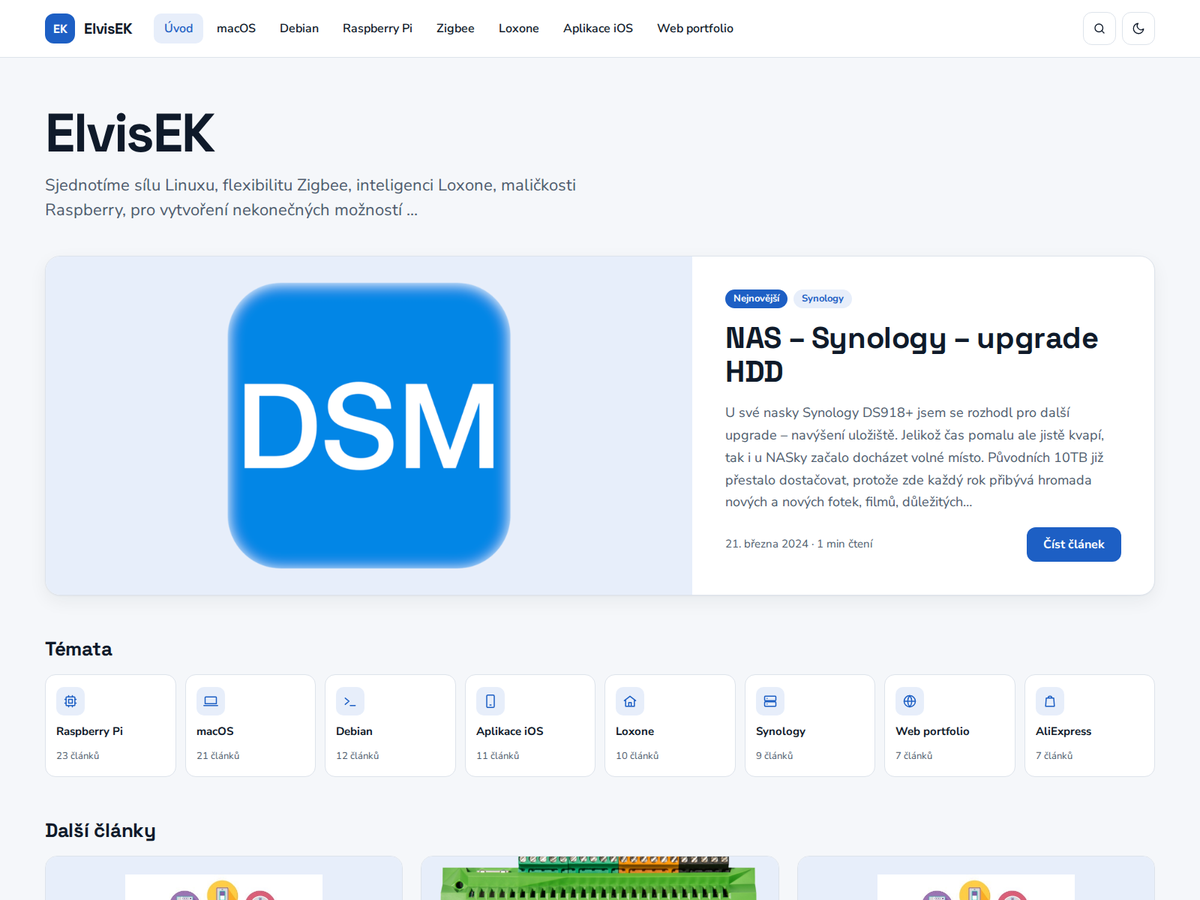
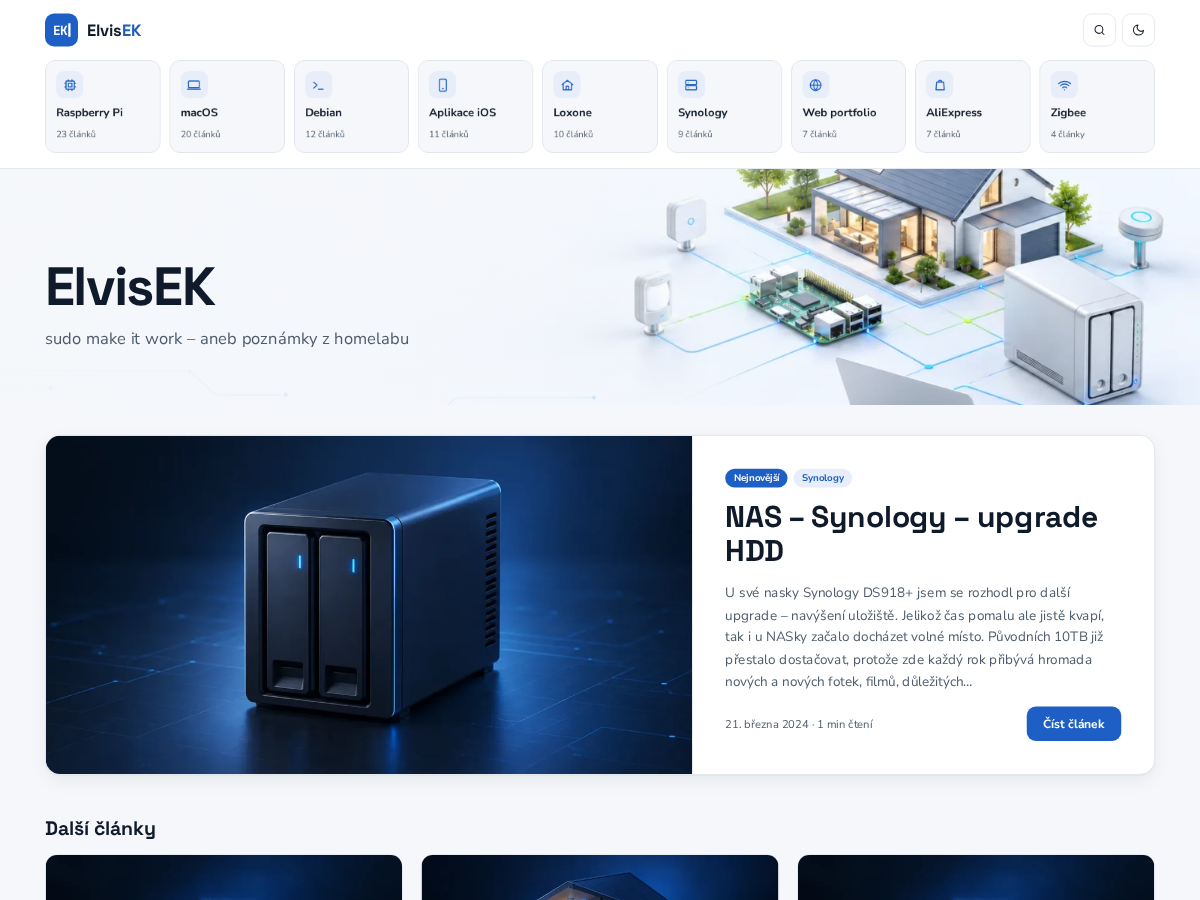
README: popis šablony a pluginu, nový náhled

diff --git a/README.md b/README.md
@@ -1,30 +1,140 @@
-# elvisek.cz — šablona a vývoj
+# ElvisEK — WordPress šablona a plugin
 
-| Složka | Obsah |
+[![Release](https://img.shields.io/github/v/release/elvisek2020/wp-theme_elvisek?label=release)](https://github.com/elvisek2020/wp-theme_elvisek/releases/latest)
+![WordPress](https://img.shields.io/badge/WordPress-6.6%2B-21759b)
+![PHP](https://img.shields.io/badge/PHP-8.1%2B-777bb4)
+![License](https://img.shields.io/badge/license-GPL--2.0--or--later-blue)
+
+Vlastní šablona a doprovodný plugin pro technický blog [www.elvisek.cz](https://www.elvisek.cz) — rychlé, bez jQuery, bez build kroku a bez externích služeb. Navrženo pro dlouhé návody s ukázkami kódu.
+
+![Náhled šablony](theme/elvisek/screenshot.png)
+
+| Balíček | Typ | Popis |
+|---|---|---|
+| **ElvisEK** (`theme/elvisek`) | šablona | vzhled webu: titulka, články, rubriky, komentáře |
+| **ElvisEK Core** (`plugins/elvisek-core`) | plugin | funkce nezávislé na šabloně: bezpečnost, obrázky, SEO, údržba |
+
+Obojí se vydává společně se stejným číslem verze a aktualizuje se přímo z GitHub Releases.
+
+---
+
+## Šablona ElvisEK
+
+**Vzhled**
+- Světlý a tmavý režim (Systém / Světlý / Tmavý) a volba šířky stránky v patičce, pamatuje si je prohlížeč
+- Titulka v magazínovém stylu: nadpis s mottem a obrázkem (zvlášť pro světlý a tmavý režim), hlavní článek a mřížka karet
+- Dlaždice témat v hlavičce, které se při rolování změní v kompaktní lištu; když se témata nevejdou, nabídnou se v hamburger menu
+- Rychlé hledání v hlavičce a „Načíst další“ místo stránkování
+
+**Články**
+- Obsah článku (TOC) z nadpisů a volitelný boční panel s novinkami
+- Bloky kódu se zvýrazněním syntaxe (PrismJS), čísly řádků a tlačítkem Kopírovat; dvě šířky podle délky kódu
+- Obrázky jednotně na 800 px a prohlížeč obrázků (lightbox) se šipkami
+- Štítek „Aktualizováno“ u zrevidovaných návodů (datum se zadává v editoru)
+- Obrázek rubriky jako náhled u článků bez vlastního obrázku
+- Související články, tisková verze a komentáře ve sbaleném boxu s kompaktním formulářem
+- Tlačítko Nahoru
+
+**Technicky**
+- Hybridní šablona: PHP šablony a `theme.json`, moduly v `inc/` jdou vypnout jednotlivě
+- Fonty (Nunito Sans, Space Grotesk, JetBrains Mono) i zvýrazňovač kódu jsou lokálně, žádné CDN
+- SEO: meta description, Open Graph, Twitter karty, JSON-LD, kanonické URL
+- Google Analytics 4 s vlastní cookie lištou — načte se jen se souhlasem a jen když je vyplněné ID
+- Antispam komentářů (honeypot a časová kontrola) bez reCAPTCHA
+
+**Nastavení** — *Vzhled → Přizpůsobit*
+
+| Sekce | Volby |
 |---|---|
-| `theme/elvisek/` | šablona ElvisEK (viz její README) |
-| `plugins/elvisek-core/` | plugin ElvisEK Core — funkce nezávislé na šabloně, nástroje pro přechod a údržbu |
-| `mu-plugins/elvisek-dev-tools.php` | **jen lokální vývoj, nenasazovat** |
-| `dev/` | lokální WordPress v Dockeru (`dev/README.md`) |
-| `docs/` | plán a wishlist |
+| Úvodní stránka | nadpis s mottem, obrázek hlavičky (světlý / tmavý), výběr a pořadí témat, počet témat |
+| Články | boční panel (obsah článku, novinky), čísla řádků u kódu, odkazy Starší / Novější, režim obrázku rubriky |
+| Patička | text o webu, rok založení |
+| SEO | meta description titulky, Google Analytics 4 ID |
 
-## Vydání nové verze šablony
-Šablona i plugin mají **společnou verzi**.
+Obrázek rubriky se nastavuje v *Příspěvky → Rubriky*.
 
-1. Zvýšit `Version:` v `theme/elvisek/style.css` **i** v `plugins/elvisek-core/elvisek-core.php` (např. `0.4.0`).
-2. `git add -A && git commit -m "…" && git tag -a v0.4.0 -m "0.4.0" && git push --follow-tags`
-   (tag musí být **anotovaný** `-a`, jinak ho `--follow-tags` nepošle; případně `git push origin v0.4.0`)
-3. GitHub Action zkontroluje verze a PHP, sestaví `elvisek.zip` + `elvisek-core.zip` a vytvoří Release.
-4. Ve WordPressu: Nástěnka → Aktualizace → *Zkontrolovat znovu* → aktualizovat šablonu i plugin.
+---
 
-První instalace: stáhnout ZIPy z Releases → Vzhled → Motivy → Přidat → Nahrát (`elvisek.zip`), Pluginy → Přidat → Nahrát (`elvisek-core.zip`).
+## Plugin ElvisEK Core
 
-## Psaní článků přes Claude (tools/wp.py)
+Nahrazuje sedm dřívějších pluginů a funguje nezávisle na šabloně.
 
-Malý klient pro WordPress REST API. Přístup (uživatel `claude`, role Redaktor, heslo aplikace) čte z `ctime.txt`, který je v `.gitignore`. Články vytváří a upravuje **jen jako koncepty**, publikuje člověk.
+| Oblast | Co dělá |
+|---|---|
+| Přihlášení | omezení pokusů o přihlášení, log přihlášení, poslední přihlášení uživatelů |
+| Bezpečnost | hardening WordPressu, bezpečnostní HTTP hlavičky, přesměrování autorských stránek |
+| Obrázky | PNG/JPG se při nahrání uloží rovnou jako WebP (fotky se otočí podle EXIF), zmenšeniny ve WebP |
+| SEO | sitemap s datem změny a bez uživatelů, `/llms.txt` |
+| Média | další povolené typy souborů ke stažení |
+| Aktualizace | automatické aktualizace WordPressu a pluginů, aktualizace šablony i pluginu z GitHubu |
+| Admin | informace o serveru v patičce administrace |
+
+**Údržba webu** — *Nástroje → Údržba webu*
+- Sjednocení starších obrázků na WebP: převede soubory i odkazy v obsahu, staré adresy přesměruje (301)
+- Přehled databáze (velikost tabulek, autoload) a optimalizace
+- Největší soubory, nepoužité obrázky s hromadným mazáním a rozbité interní odkazy
+- Úklid revizí, konceptů, koše a expirovaných transientů
+
+---
+
+## Požadavky
+
+- WordPress 6.6+ (testováno do 7.1)
+- PHP 8.1+ s podporou WebP v GD nebo Imagick
+
+## Instalace
+
+1. Stáhněte `elvisek.zip` a `elvisek-core.zip` z [posledního vydání](https://github.com/elvisek2020/wp-theme_elvisek/releases/latest).
+2. *Vzhled → Motivy → Přidat nový → Nahrát motiv* → `elvisek.zip` → Aktivovat.
+3. *Pluginy → Přidat nový → Nahrát plugin* → `elvisek-core.zip` → Aktivovat.
+
+## Aktualizace
+
+Šablona i plugin si nové vydání najdou samy. Stačí *Nástěnka → Aktualizace → Zkontrolovat znovu* a aktualizovat.
+
+---
+
+## Vývoj
+
+```
+theme/elvisek/            šablona (podrobnosti v theme/elvisek/README.md)
+plugins/elvisek-core/     plugin
+mu-plugins/               pomůcky jen pro lokální vývoj — nenasazovat
+dev/                      lokální WordPress v Dockeru (dev/README.md)
+tools/                    wp.py (REST API klient), img.py (příprava obrázků)
+docs/                     plán a wishlist
+.github/workflows/        sestavení vydání
+```
+
+**Lokální prostředí** — WordPress v Dockeru na `http://localhost:8080`, šablona a plugin jsou do kontejneru připojené přímo z repozitáře (bez kopírování). Návod v [`dev/README.md`](dev/README.md).
+
+**Nástroje**
 
 ```bash
-python3 tools/wp.py whoami | categories | drafts | get <id>
-python3 tools/wp.py draft --title "…" --content clanek.html --categories 15 --tags "docker,rpi" [--featured obrazek.jpg] [--id <id konceptu>]
-python3 tools/wp.py upload obrazek.jpg --alt "…"
+# WordPress REST API – články jen jako koncepty, publikuje člověk
+python3 tools/wp.py whoami | categories | drafts | posts | pages | media
+python3 tools/wp.py draft --title "…" --content clanek.html --categories 15 --tags "docker,rpi" [--featured obrazek.webp]
+python3 tools/wp.py upload obrazek.webp --alt "…"
+
+# Obrázky: obrazky/vstup → obrazky/web (1600×900, WebP)
+python3 tools/img.py
 ```
+
+Přístupové údaje čte `wp.py` z `ctime.txt`, který je v `.gitignore`.
+
+## Vydání nové verze
+
+Šablona i plugin mají společnou verzi.
+
+1. Zvyšte `Version:` v `theme/elvisek/style.css` **i** v `plugins/elvisek-core/elvisek-core.php` a doplňte [`CHANGELOG.md`](CHANGELOG.md).
+2. Commit a anotovaný tag:
+   ```bash
+   git add -A && git commit -m "X.Y.Z: …"
+   git status                      # musí být čisto
+   git tag -a vX.Y.Z -m "X.Y.Z" && git push && git push --tags
+   ```
+3. GitHub Action ověří, že tag odpovídá verzím, zkontroluje syntaxi PHP, sestaví `elvisek.zip` a `elvisek-core.zip` a vytvoří Release.
+
+## Licence
+
+[GPL-2.0-or-later](https://www.gnu.org/licenses/gpl-2.0.html) · © Zdeněk Král ([ElvisEK](https://www.elvisek.cz))

diff --git a/theme/elvisek/README.md b/theme/elvisek/README.md
@@ -7,7 +7,10 @@ Vlastní šablona pro www.elvisek.cz. Hybrid: PHP šablony + `theme.json`. Bez j
 |---|---|
 | `functions.php` | seznam modulů v `inc/` (každý jde vypnout) |
 | `inc/setup.php` | podpora šablony, menu, velikosti obrázků, úklid `<head>` |
-| `inc/customizer.php` | Vzhled → Přizpůsobit → ElvisEK (motto, obrázek hlavičky, patička, GA4 ID) |
+| `inc/customizer.php` | Vzhled → Přizpůsobit (úvodní stránka, témata, články, patička, SEO) |
+| `inc/category-image.php` | obrázek rubriky (Příspěvky → Rubriky) jako náhled článků |
+| `inc/updated.php` | štítek „Aktualizováno“ u návodů (box v editoru) |
+| `inc/updater.php` | aktualizace šablony z GitHub Releases |
 | `inc/assets.php` | CSS/JS; Prism jen u článků s kódem |
 | `inc/content.php` | externí odkazy, kotvy nadpisů, obsah článku |
 | `inc/seo.php` | meta description, Open Graph, JSON-LD |
@@ -16,7 +19,7 @@ Vlastní šablona pro www.elvisek.cz. Hybrid: PHP šablony + `theme.json`. Bez j
 | `home.php` | titulka: nadpis + motto, hlavní článek, témata, karty |
 | `single.php` | článek + obsah článku + novinky |
 | `assets/css/main.css` | barvy (světlý/tmavý) jako `--ek-*` proměnné nahoře v souboru |
-| `assets/js/theme.js` | přepínač režimu, menu, hledání, kopírování kódu, „načíst další“ |
+| `assets/js/theme.js` | vzhled a šířka v patičce, lišta a hamburger menu, hledání, kopírování kódu, „načíst další“, komentáře, tlačítko Nahoru |
 | `assets/js/lightbox.js` | zvětšení obrázků |
 | `assets/js/prism.js` | PrismJS 1.30 (bash, php, powershell, python, yaml, json, sql, docker, nginx…) |
 | `assets/fonts/` | Nunito Sans, Space Grotesk, JetBrains Mono (OFL) |
@@ -25,5 +28,5 @@ Vlastní šablona pro www.elvisek.cz. Hybrid: PHP šablony + `theme.json`. Bez j
 Blok **Kód** → v pravém panelu **Jazyk kódu** vybrat jazyk (nastaví třídu `language-…`). Čísla řádků jdou vypnout v Přizpůsobit → ElvisEK.
 
 ## Související
-- `../../mu-plugins/elvisek-core.php` — funkce nezávislé na šabloně (login, log, MIME, aktualizace, hardening)
+- `../../plugins/elvisek-core/` — plugin ElvisEK Core: funkce nezávislé na šabloně (přihlášení, bezpečnost, WebP, SEO, údržba webu)
 - `../../mu-plugins/elvisek-dev-tools.php` — **jen lokálně**, nenasazovat
